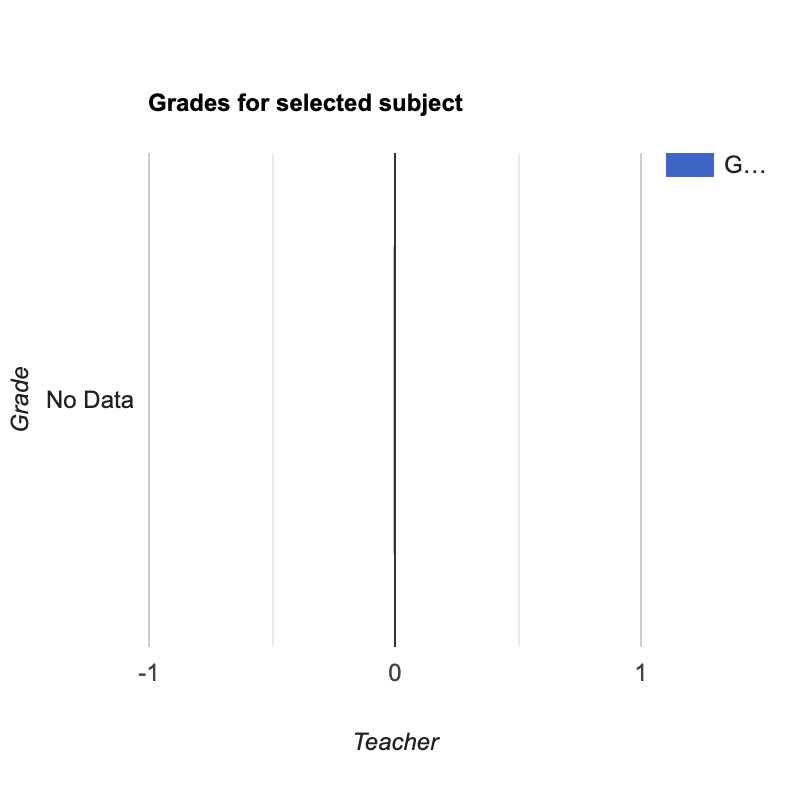
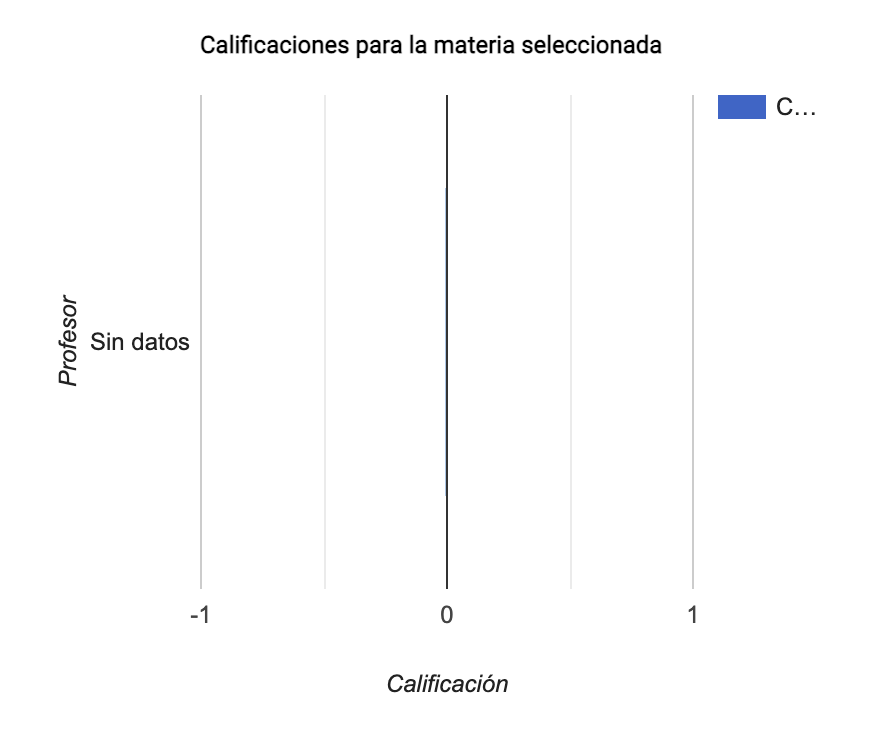
cambios

diff --git a/dashboard/index3.html b/dashboard/index3.html
@@ -1,5 +1,6 @@
 <!DOCTYPE html>
 <html lang="en">
+
 <head>
     <meta charset="UTF-8">
     <title>Document</title>
@@ -183,27 +184,36 @@
 
         function drawColumnChart(jsonData) {
             let data = new google.visualization.DataTable();
-            data.addColumn("string", "Subject");
-            data.addColumn("number", "Grade");
+            if (jsonData.length === 0) { // If Sin datos for selected subject
+                data.addColumn("string", "Subject");
+                data.addColumn("number", "Grade");
+                data.addRow(['Sin datos', 0]);
+            } else {
+                data.addColumn("string", "Subject");
+                data.addColumn("number", "Grade");
+                jsonData.forEach((row) => {
+                    data.addRow([String(row.subject), parseFloat(row.grade)]);
+                });
+            }
 
 
-            jsonData.forEach((row) => {
-                data.addRow([String(row.subject), parseFloat(row.grade)]);
-            });
+
+
+
             //GRAFICA 3
             let columnchart_options = {
-                title: "Grades for selected professor",
+                title: "Calificaciones para el profesor seleccionado",
                 titleTextStyle: { color: '#0000', fontName: "Roboto", fontSize: "50px", bold: true },
-                hAxis: { title: "Subject" }, // Replace "Count" with "Subject"
-                vAxis: { title: "Grade" },
-                legendTextStyle: { color: '#0000'},
+                hAxis: { title: "Materia" },
+                vAxis: { title: "Calificación" },
+                legendTextStyle: { color: '#0000' },
                 chartArea: {
                     backgroundColor: {
-                    fill: 'transparent',
+                        fill: 'transparent',
                     },
                 },
                 backgroundColor: {
-                fill: 'transparent',
+                    fill: 'transparent',
                 },
                 width: 400,
                 height: 400,
@@ -221,7 +231,7 @@
             if (jsonData.length === 0) {
                 data = new google.visualization.arrayToDataTable([
                     ['Year', 'Count'],
-                    ['No Data', 0]
+                    ['Sin datos', 0]
                 ]);
             } else {
                 data = new google.visualization.arrayToDataTable([
@@ -255,32 +265,32 @@
         function drawBarChart(jsonData) {
             let data;
 
-            if (jsonData.length === 0) { // If no data for selected subject
+            if (jsonData.length === 0) { // If Sin datos for selected subject
                 data = new google.visualization.arrayToDataTable([
-                    ['Teacher', 'Grade', { role: 'style' }],
-                    ['No Data', 0, '#A7C7E7'],
+                    ['Profesor', 'Calificación', { role: 'style' }],
+                    ['Sin datos', 0, '#A7C7E7'],
                 ]);
             } else {
                 data = new google.visualization.arrayToDataTable([
-                    ['Teacher', 'Grade', { role: 'style' }],
+                    ['Profesor', 'Calificación', { role: 'style' }],
                     ...jsonData.map((row) => [String(row.teacher), parseFloat(row.avg_grade), '#A7C7E7'])
                 ]);
             }
             //GRAFICA 2
             let barchart_options = {
-                title: "Grades for selected subject",
+                title: "Calificaciones para la materia seleccionada",
                 titleTextStyle: { color: '#0000', fontName: "Roboto", fontSize: "50px", bold: true },
-                hAxis: { title: "Teacher" },
-                vAxis: { title: "Grade" },
+                hAxis: { title: "Calificación" },
+                vAxis: { title: "Profesor" },
                 width: 400,
                 height: 400,
-                legendTextStyle: { color: '#0000'},
+                legendTextStyle: { color: '#0000' },
                 is3D: true,
                 backgroundColor: {
-                fill: 'TRANSPARENT',
-                fillOpacity: 0.8
+                    fill: 'TRANSPARENT',
+                    fillOpacity: 0.8
                 },
-                
+
             };
 
             let barchart = new google.visualization.BarChart(
@@ -330,7 +340,7 @@
                     height: 800,
                     alignItems: 'center',
                     backgroundColor: 'transparent',
-                    legendTextStyle: { color: '#0000'},
+                    legendTextStyle: { color: '#0000' },
                     colors: ['#008080', '#6082B6', '#000080', '#A7C7E7', '#B6D0E2', '#6082B6'],
                     is3D: true,
                     // slices: {  
@@ -461,51 +471,47 @@
     <label for="menu" onclick="toggleMenu()" class="square2" style="margin-left: 10px; margin-top: 10px;"> = </label>
     <div id="menu-text" class="menu-text" style="color:white">
         <ul>
-        <li>Link 1</li>
-        <li>Link 2</li>
-        <li>Link 3</li>
-        <li>Link 4</li>
+            <li>Link 1</li>
+            <li>Link 2</li>
+            <li>Link 3</li>
+            <li>Link 4</li>
         </ul>
     </div>
-   <br><br><br><br><br>
-   <div class="container square">
+    <br><br><br><br><br>
+    <div class="container square">
         <div class="row">
             <div class="col-sm-12 center">
-                <h2>   Evaluación de profesores</h2>
+                <h2> Evaluación de profesores</h2>
             </div>
             <div class="col-sm-1 center">
                 <br><br><br>
-                
+
                 <!-- <a href="https://www.w3schools.com">&#9829;</a><br><br>
                 <a href="https://www.w3schools.com">&#9829;</a> -->
-                
+
             </div>
             <div class="col-sm-3 center">
                 <br><br><br><br><br><br>
-                <h5 class="square2" >Total de alumnos: <span
-                    id="students-count"></span></h5>
+                <h5 class="square2">Total de alumnos: <span id="students-count"></span></h5>
                 <p style="color:white; font-size: 1px;">.</p>
-                <h5 class="square3">Total de profesores: <span
-                    id="teachers-count"></span></h5>
+                <h5 class="square3">Total de profesores: <span id="teachers-count"></span></h5>
                 <p style="color:white; font-size: 1px;">.</p>
-                <h5 class="square5">Total de Materias: <span
-                    id="subjects-count"></span></h5>
+                <h5 class="square5">Total de Materias: <span id="subjects-count"></span></h5>
                 <p style="color:white; font-size: 1px;">.</p>
-                <h5 class="square4">Calificaciones: <span
-                    id="grades-count"></span></h5>
+                <h5 class="square4">Calificaciones: <span id="grades-count"></span></h5>
             </div>
             <div class="col-sm-7 center">
-                    
+
                 <div id="piechart_div"></div>
                 <div id="top3proff_div" style="text-align: center;">Top 3 profesores</div>
-                
+
             </div>
 
 
         </div>
-   </div>
-   <br>
-   <div class="container">
+    </div>
+    <br>
+    <div class="container">
         <div class="row">
             <div class="col-sm-5.5 center-block square">
                 <div id="piechart_div" style="border: 10px solid #0000"></div>
@@ -513,7 +519,7 @@
                 </select>
                 <div id="barchart_div" style="border: 10px solid #0000">
                     <img src="default_dropdown_subject.png" width="400" height="400" />
-                </div>   
+                </div>
             </div>
             <div class="col-sm-0.8">
                 <p style="color:transparent">.........</p>
@@ -525,8 +531,8 @@
                     <img src="default_dropdown_proffesor.png" width="400" height="400" />
                 </div>
             </div>
-            
-            
+
+
         </div>
         <br><br>
         <div class="square center-block">
@@ -545,16 +551,17 @@
         <br><br>
         <br><br>
         <script src="https://stackpath.bootstrapcdn.com/bootstrap/4.5.2/js/bootstrap.min.js"></script>
-    
-    </body>
+
+</body>
+
 </html>
 <script>
     function toggleMenu() {
         var menuText = document.getElementById("menu-text");
         if (menuText.style.display === "none") {
-        menuText.style.display = "block";
+            menuText.style.display = "block";
         } else {
-        menuText.style.display = "none";
+            menuText.style.display = "none";
         }
     }
     (function () {

diff --git a/dashboard/subjects.php b/dashboard/subjects.php
@@ -16,7 +16,7 @@ $sql = "SELECT DISTINCT Subject1 AS Subject FROM teachers WHERE Subject1 IS NOT 
 $result = $conn->query($sql);
 
 $subjects = array();
-$subjects[] = "Select a subject";
+$subjects[] = "Selecciona una materia";
 
 if ($result->num_rows > 0) {
     while ($row = $result->fetch_assoc()) {

diff --git a/dashboard/professors.php b/dashboard/professors.php
@@ -17,7 +17,7 @@ $result = $conn->query($sql);
 
 $teacherID = array();
 // Add default option to the start of the array
-$teacherID[] = "Select a teacher";
+$teacherID[] = "Selecciona un profesor";
 
 if ($result->num_rows > 0) {
     // output data of each row
